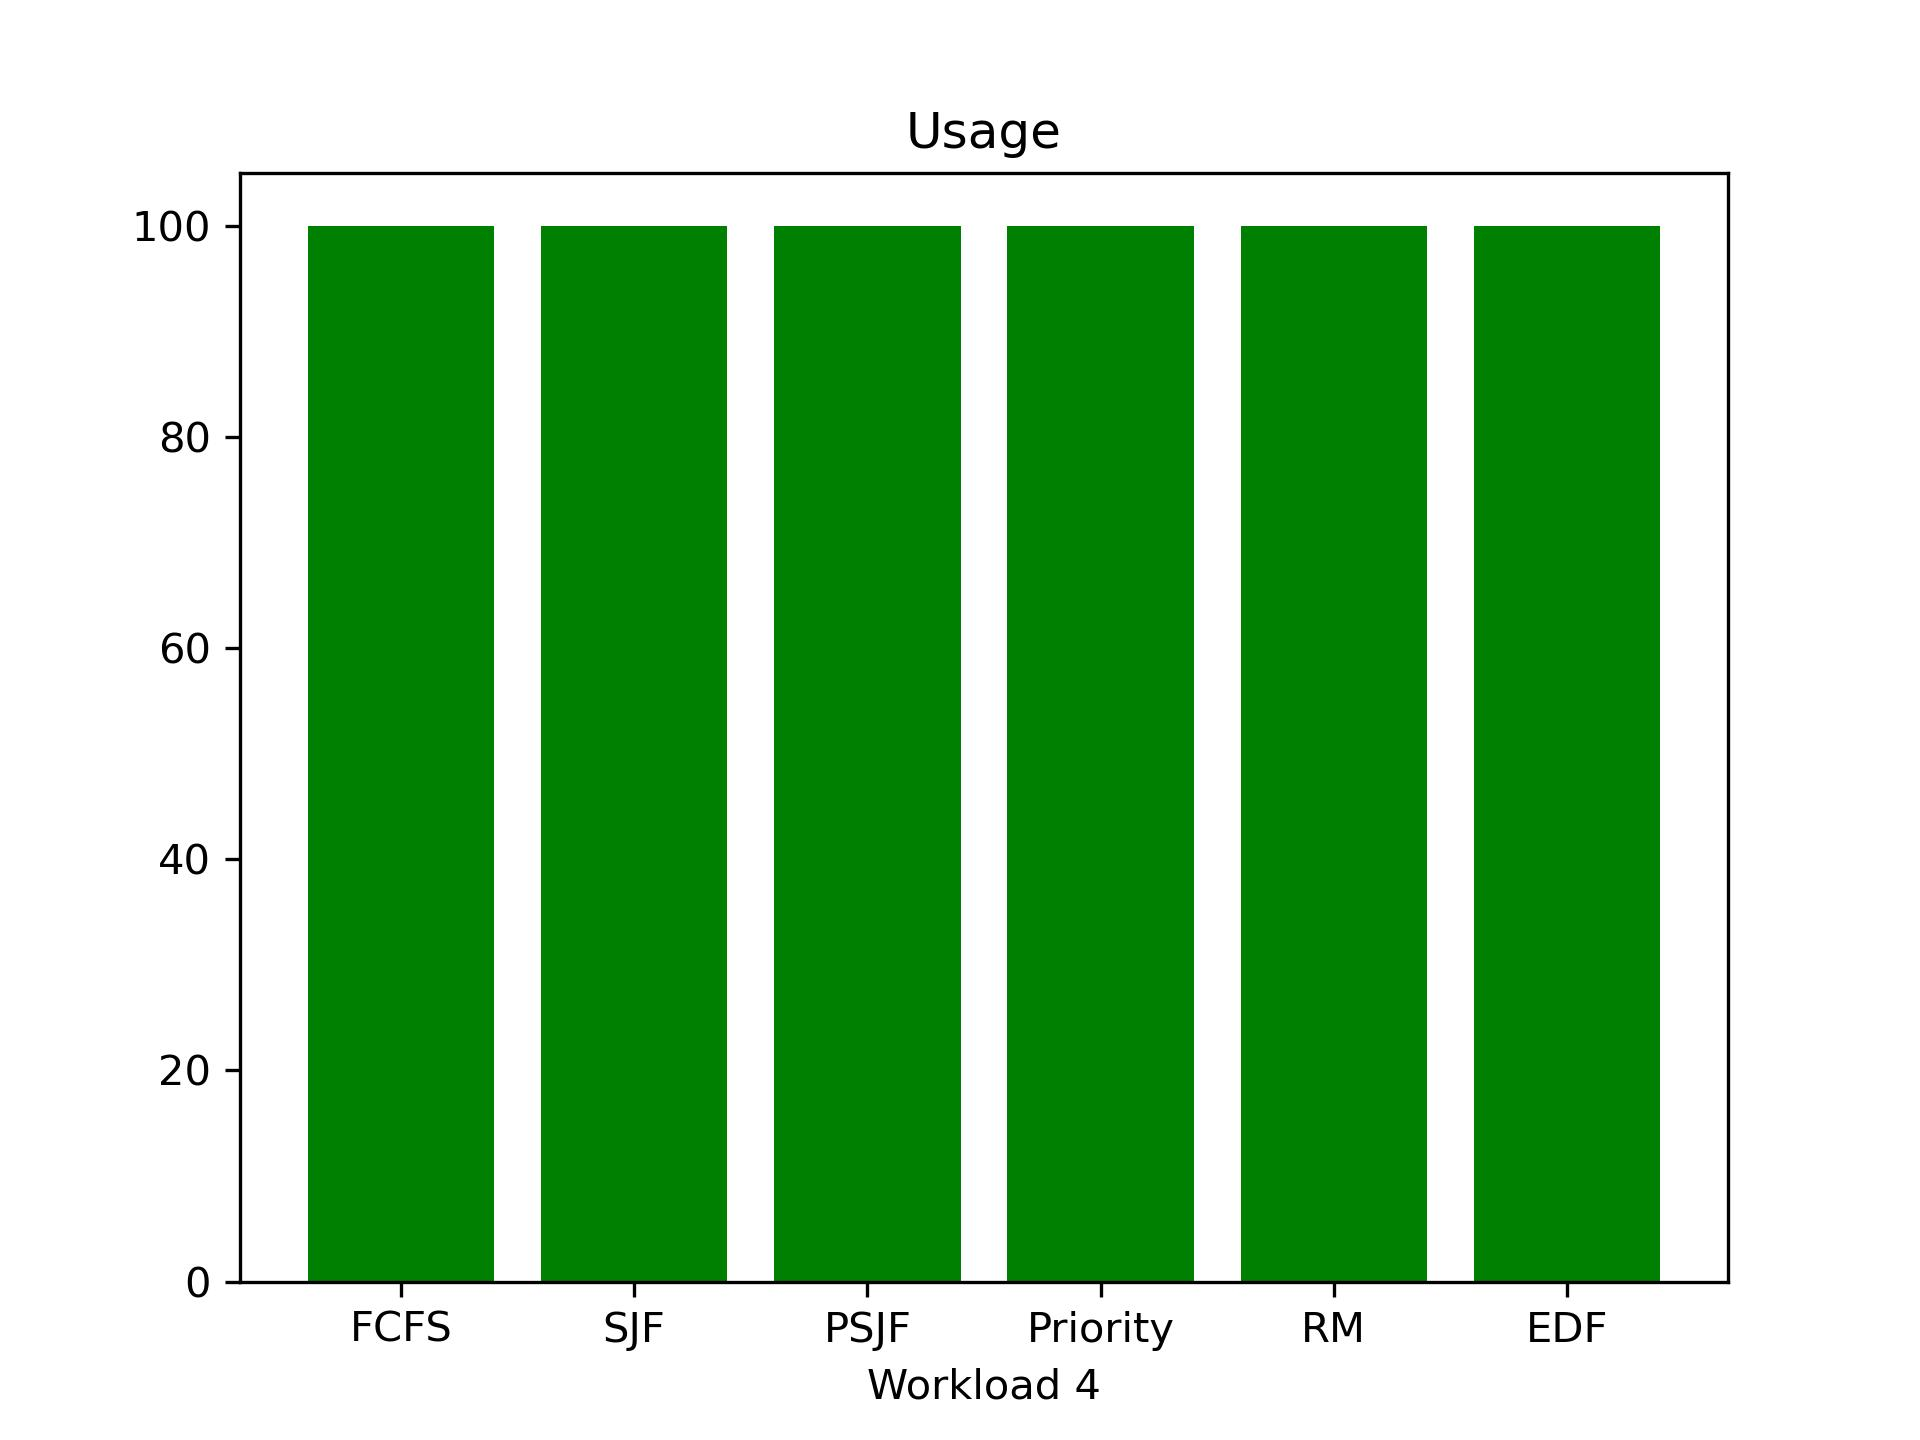
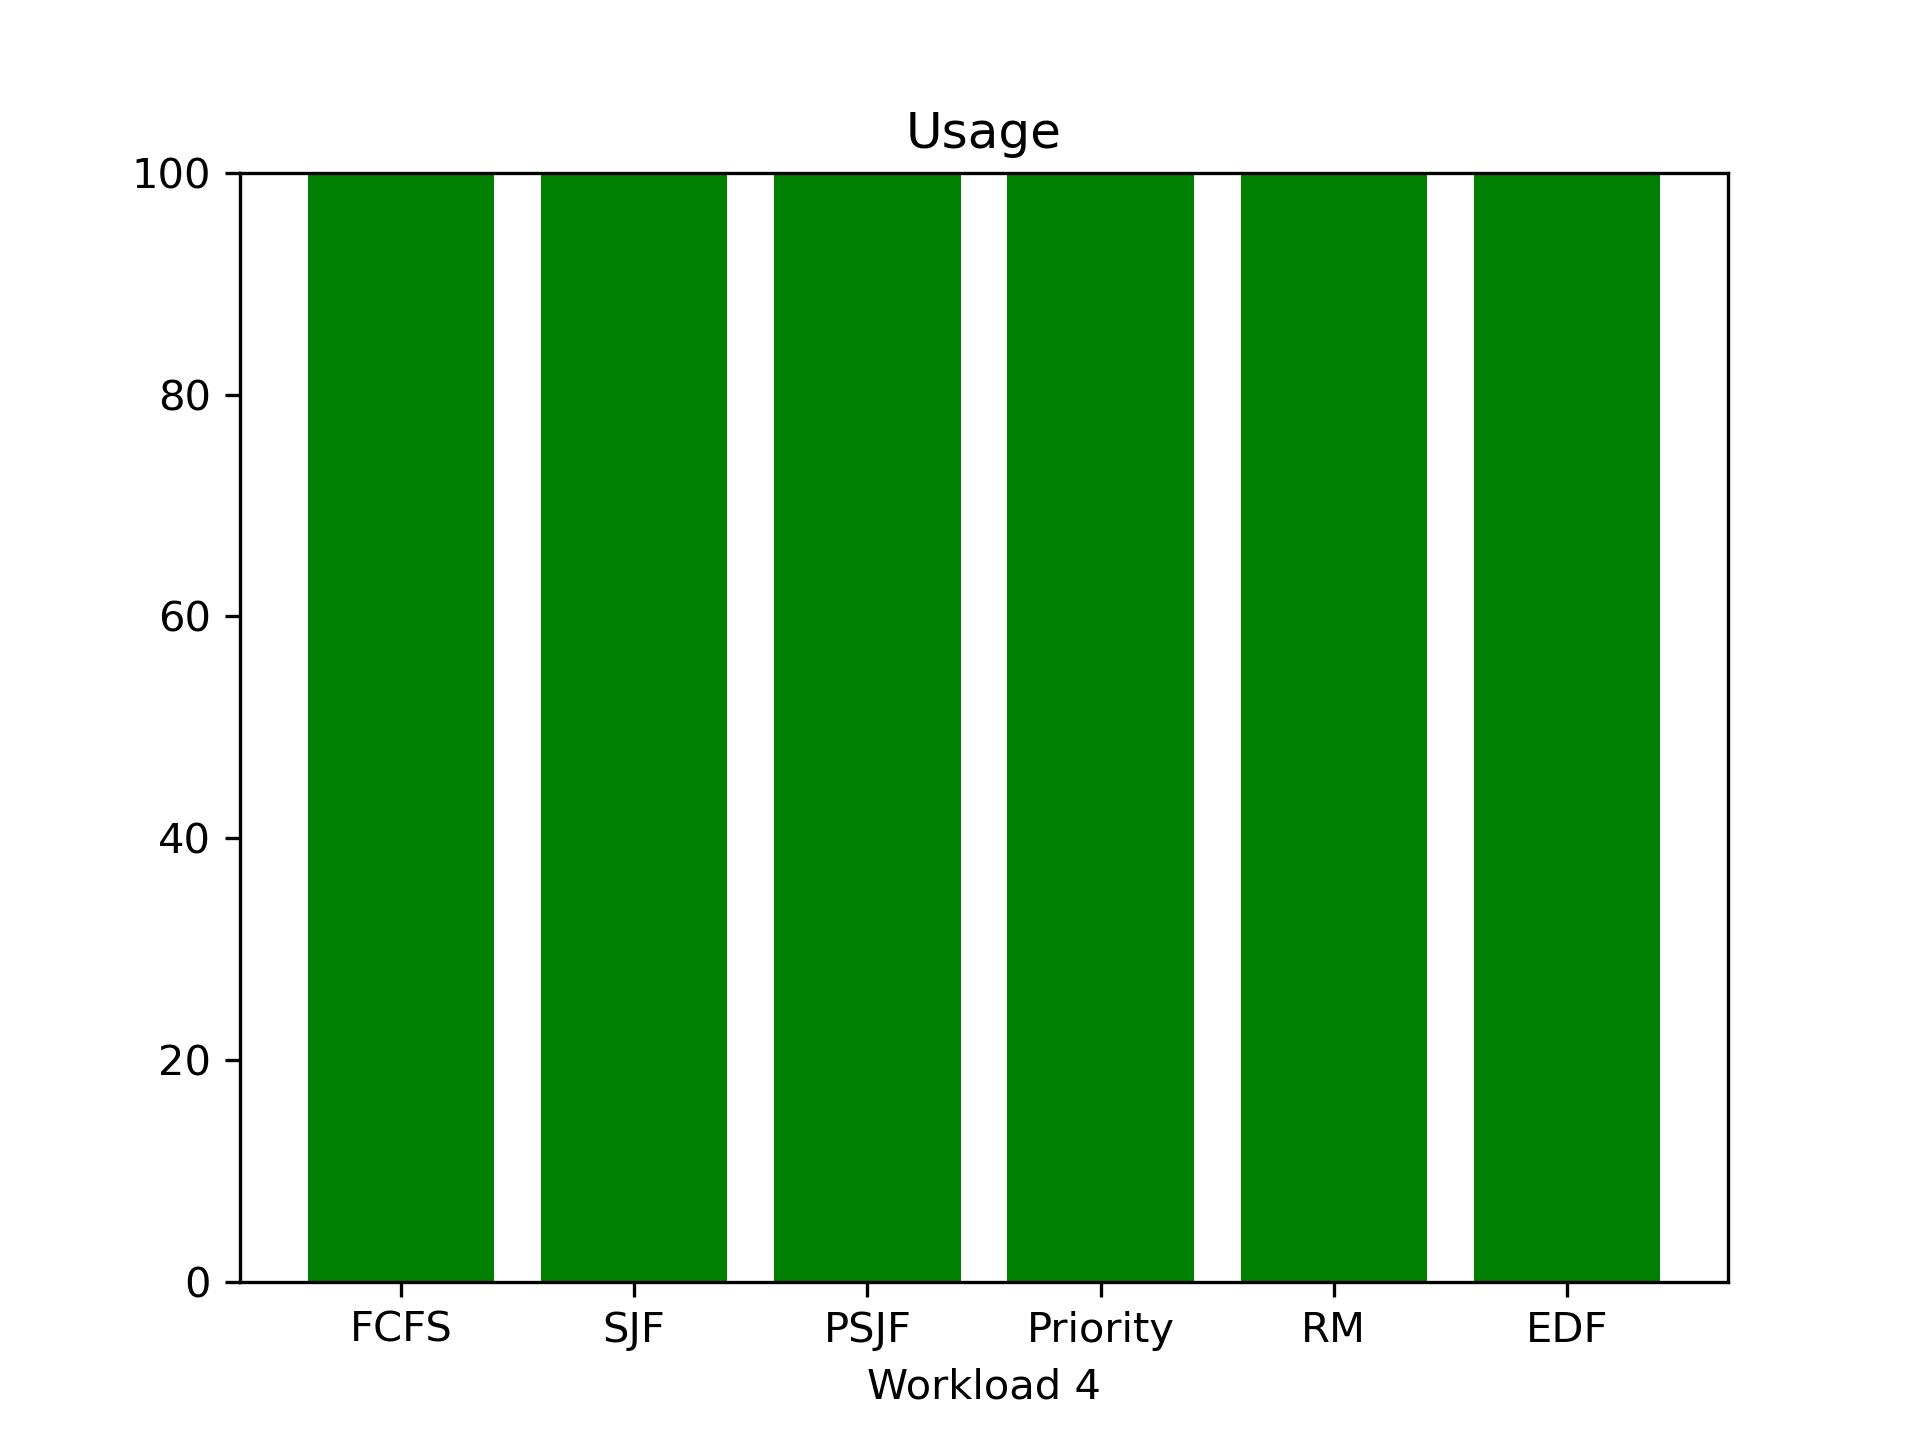
Accurate plots

diff --git a/histograms.py b/histograms.py
@@ -15,6 +15,9 @@ def plot_workload(name, metric, listAlgs, listTimes, hist_color):
     plt.bar(listAlgs, listTimes, color=hist_color)
     plt.xlabel(name)
     plt.title(metric)
+    if metric == "Usage":
+        plt.ylim(0, 100)
+
     plt.savefig(save_path, format="jpg", dpi=300)
     plt.clf()
 
@@ -56,4 +59,4 @@ for i in range(1, count_loads + 1):
     plot_workload(f"Workload {i}", "Usage", loads[i].algorithms, loads[i].usages, "green")
     plot_workload(f"Workload {i}", "Turnaround", loads[i].algorithms, loads[i].tas, "blue")
     plot_workload(f"Workload {i}", "Waiting", loads[i].algorithms, loads[i].waits, "red")
-    plot_workload(f"Workload {i}", "Responding", loads[i].algorithms, loads[i].waits, "darkviolet")
+    plot_workload(f"Workload {i}", "Responding", loads[i].algorithms, loads[i].resps, "darkviolet")
